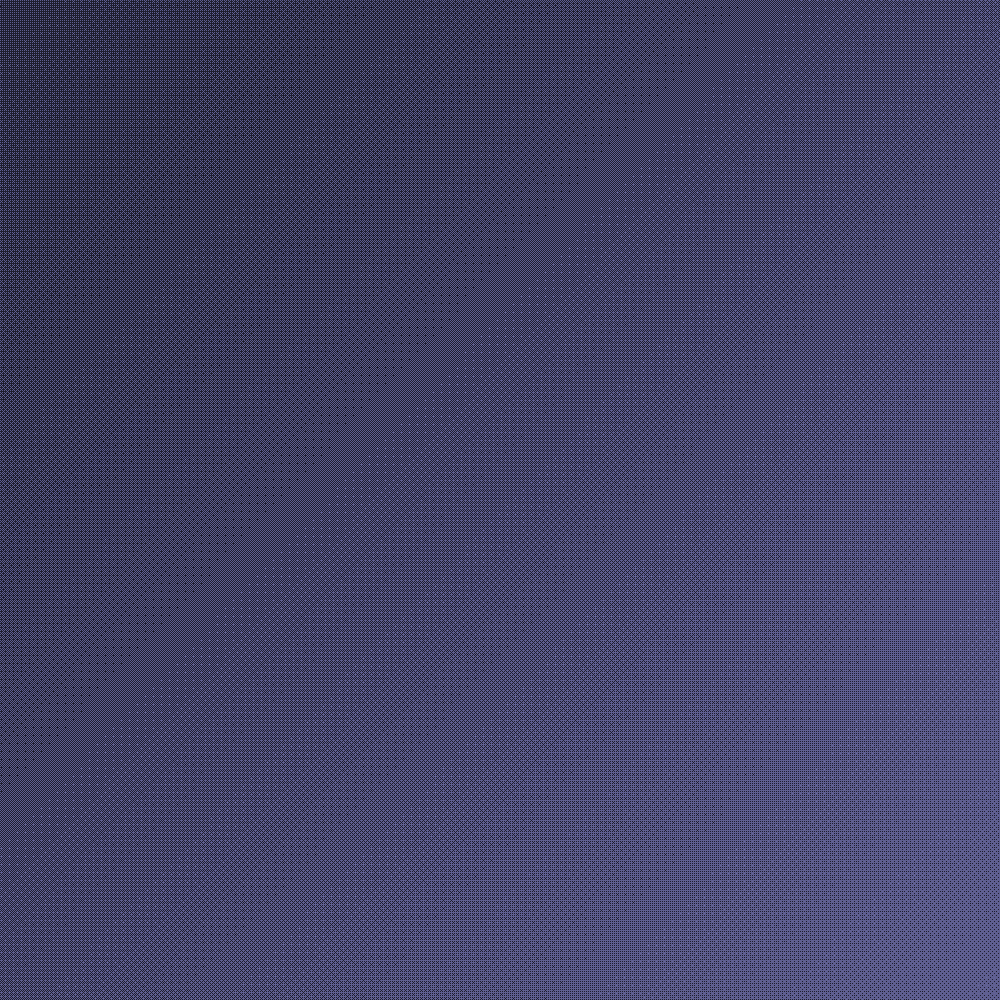
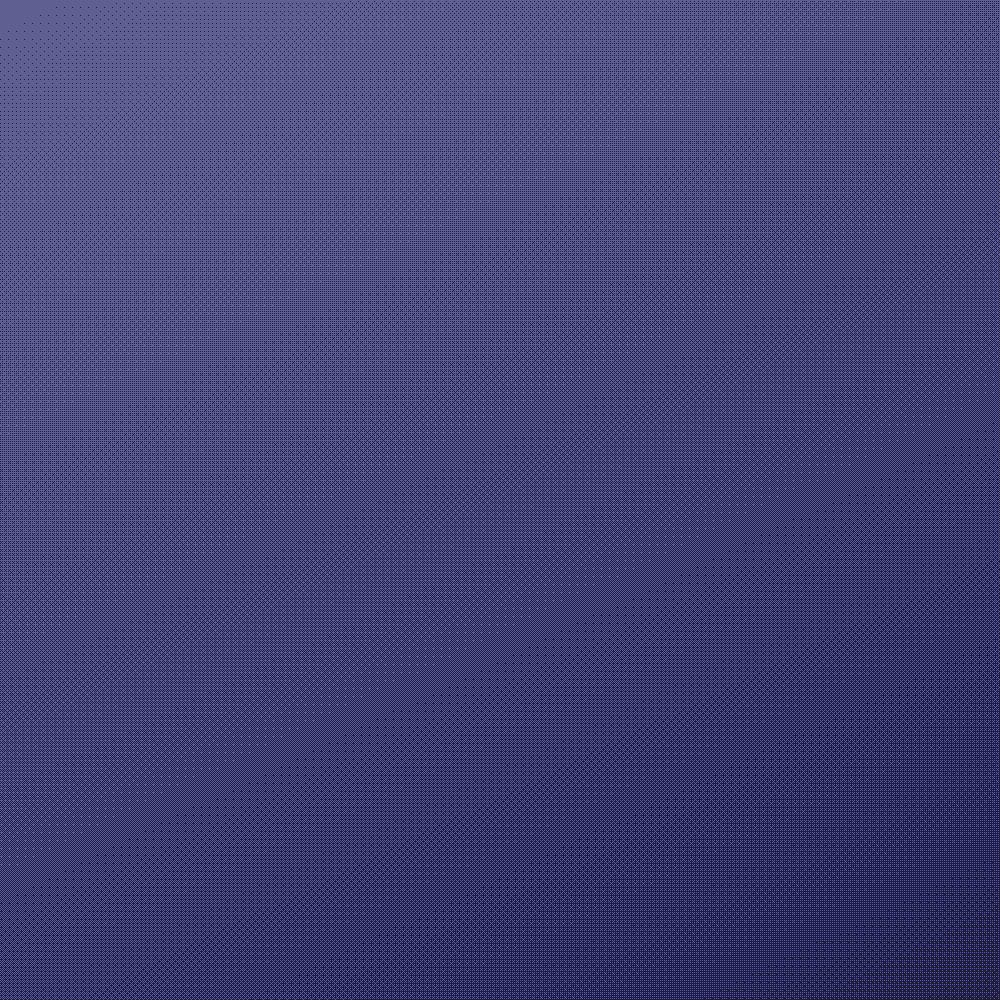
New colors and fix image lost

Changed region(s): [[0.0, 0.279, 1.0, 1.0], [0.0, 0.0, 1.0, 0.744]]

diff --git a/src/_includes/css/critical.css b/src/_includes/css/critical.css
@@ -1,1 +1,1 @@
-*,:after,:before{box-sizing:border-box}ol[class],ul[class]{padding:0}blockquote,body,dd,dl,figure,h1,h2,h3,h4,ol[class],p,ul[class]{margin:0}html{scroll-behavior:smooth}body{line-height:1.5;min-height:100vh;text-rendering:optimizeSpeed}ol[class],ul[class]{list-style:none}a:not([class]){text-decoration-skip-ink:auto}img{display:block;max-width:100%}button,input,select,textarea{font:inherit}@media (prefers-reduced-motion:reduce){*{animation-duration:.01s!important;animation-iteration-count:1!important;scroll-behavior:auto!important;transition-duration:.01s!important}}.bg-Rosewater{background:#f4c8a5}.bg-Flamingo{background:#f2cdcd}.bg-Brid{background:#edcdbb}.bg-Pink{background:#f5c2e7}.bg-Mauve{background:#cba6f7}.bg-Red{background:#eb455c}.bg-Maroon{background:#eba0ac}.bg-Peach{background:#fab387}.bg-Yellow{background:#f9e2af}.bg-Green{background:#a6e3a1}.bg-Teal{background:#94e2d5}.bg-Sky{background:#89dceb}.bg-Sapphire{background:#74c7ec}.bg-Blue{background:#354059}.bg-Lavender{background:#b4befe}.bg-Text{background:#cad3f5}.bg-Subtext1{background:#bac2de}.bg-Subtext0{background:#a6adc8}.bg-Overlay2{background:#9399b2}.bg-Overlay1{background:#7f849c}.bg-Overlay0{background:#6c7086}.bg-Surface2{background:#585b70}.bg-Surface1{background:#45475a}.bg-Surface0{background:#313244}.bg-Base{background:#1e1e2e}.bg-Mantle{background:#181825}.bg-Crust{background:#11111b}.color-Rosewater{color:#f4c8a5}.color-Flamingo{color:#f2cdcd}.color-Brid{color:#edcdbb}.color-Pink{color:#f5c2e7}.color-Mauve{color:#cba6f7}.color-Red{color:#eb455c}.color-Maroon{color:#eba0ac}.color-Peach{color:#fab387}.color-Yellow{color:#f9e2af}.color-Green{color:#a6e3a1}.color-Teal{color:#94e2d5}.color-Sky{color:#89dceb}.color-Sapphire{color:#74c7ec}.color-Blue{color:#354059}.color-Lavender{color:#b4befe}.color-Text{color:#cad3f5}.color-Subtext1{color:#bac2de}.color-Subtext0{color:#a6adc8}.color-Overlay2{color:#9399b2}.color-Overlay1{color:#7f849c}.color-Overlay0{color:#6c7086}.color-Surface2{color:#585b70}.color-Surface1{color:#45475a}.color-Surface0{color:#313244}.color-Base{color:#1e1e2e}.color-Mantle{color:#181825}.color-Crust{color:#11111b}.box-block{display:block}.box-flex{display:flex}.box-hide{display:none}.box-show{display:inherit}.font-base{font-family:sans-serif}.font-terminal{font-family:serif}.gap-top-300{margin-top:.8rem}.gap-top-400{margin-top:1rem}.gap-top-500{margin-top:1.2rem}.gap-top-600{margin-top:1.6rem}.gap-top-700{margin-top:2rem}.gap-top-800{margin-top:2.5rem}.gap-top-900{margin-top:3rem}.gap-top-1000{margin-top:4rem}.gap-top-1100{margin-top:5rem}.gap-top-1200{margin-top:6rem}.gap-right-300{margin-right:.8rem}.gap-right-400{margin-right:1rem}.gap-right-500{margin-right:1.2rem}.gap-right-600{margin-right:1.6rem}.gap-right-700{margin-right:2rem}.gap-right-800{margin-right:2.5rem}.gap-right-900{margin-right:3rem}.gap-right-1000{margin-right:4rem}.gap-right-1100{margin-right:5rem}.gap-right-1200{margin-right:6rem}.gap-bottom-300{margin-bottom:.8rem}.gap-bottom-400{margin-bottom:1rem}.gap-bottom-500{margin-bottom:1.2rem}.gap-bottom-600{margin-bottom:1.6rem}.gap-bottom-700{margin-bottom:2rem}.gap-bottom-800{margin-bottom:2.5rem}.gap-bottom-900{margin-bottom:3rem}.gap-bottom-1000{margin-bottom:4rem}.gap-bottom-1100{margin-bottom:5rem}.gap-bottom-1200{margin-bottom:6rem}.gap-left-300{margin-left:.8rem}.gap-left-400{margin-left:1rem}.gap-left-500{margin-left:1.2rem}.gap-left-600{margin-left:1.6rem}.gap-left-700{margin-left:2rem}.gap-left-800{margin-left:2.5rem}.gap-left-900{margin-left:3rem}.gap-left-1000{margin-left:4rem}.gap-left-1100{margin-left:5rem}.gap-left-1200{margin-left:6rem}.pad-top-300{padding-top:.8rem}.pad-top-400{padding-top:1rem}.pad-top-500{padding-top:1.2rem}.pad-top-600{padding-top:1.6rem}.pad-top-700{padding-top:2rem}.pad-top-800{padding-top:2.5rem}.pad-top-900{padding-top:3rem}.pad-top-1000{padding-top:4rem}.pad-top-1100{padding-top:5rem}.pad-top-1200{padding-top:6rem}.pad-right-300{padding-right:.8rem}.pad-right-400{padding-right:1rem}.pad-right-500{padding-right:1.2rem}.pad-right-600{padding-right:1.6rem}.pad-right-700{padding-right:2rem}.pad-right-800{padding-right:2.5rem}.pad-right-900{padding-right:3rem}.pad-right-1000{padding-right:4rem}.pad-right-1100{padding-right:5rem}.pad-right-1200{padding-right:6rem}.pad-bottom-300{padding-bottom:.8rem}.pad-bottom-400{padding-bottom:1rem}.pad-bottom-500{padding-bottom:1.2rem}.pad-bottom-600{padding-bottom:1.6rem}.pad-bottom-700{padding-bottom:2rem}.pad-bottom-800{padding-bottom:2.5rem}.pad-bottom-900{padding-bottom:3rem}.pad-bottom-1000{padding-bottom:4rem}.pad-bottom-1100{padding-bottom:5rem}.pad-bottom-1200{padding-bottom:6rem}.pad-left-300{padding-left:.8rem}.pad-left-400{padding-left:1rem}.pad-left-500{padding-left:1.2rem}.pad-left-600{padding-left:1.6rem}.pad-left-700{padding-left:2rem}.pad-left-800{padding-left:2.5rem}.pad-left-900{padding-left:3rem}.pad-left-1000{padding-left:4rem}.pad-left-1100{padding-left:5rem}.pad-left-1200{padding-left:6rem}.stack-300{z-index:0}.stack-400{z-index:10}.stack-500{z-index:20}.stack-600{z-index:30}.stack-700{z-index:40}.text-300{font-size:.8rem}.text-400{font-size:1rem}.text-500{font-size:1.2rem}.text-600{font-size:1.6rem}.text-700{font-size:2rem}.text-800{font-size:2.5rem}.text-900{font-size:3rem}.text-1000{font-size:4rem}.text-1100{font-size:5rem}.text-1200{font-size:6rem}.weight-light{font-weight:300}.weight-regular{font-weight:400}.weight-bold{font-weight:700}.width-full{width:100%}@media (min-width:36em){.sm\:box-block{display:block}.sm\:box-flex{display:flex}.sm\:box-hide{display:none}.sm\:box-show{display:inherit}.sm\:text-300{font-size:.8rem}.sm\:text-400{font-size:1rem}.sm\:text-500{font-size:1.2rem}.sm\:text-600{font-size:1.6rem}.sm\:text-700{font-size:2rem}.sm\:text-800{font-size:2.5rem}.sm\:text-900{font-size:3rem}.sm\:text-1000{font-size:4rem}.sm\:text-1100{font-size:5rem}.sm\:text-1200{font-size:6rem}.sm\:width-full{width:100%}}@media (min-width:48em){.md\:box-block{display:block}.md\:box-flex{display:flex}.md\:box-hide{display:none}.md\:box-show{display:inherit}.md\:text-300{font-size:.8rem}.md\:text-400{font-size:1rem}.md\:text-500{font-size:1.2rem}.md\:text-600{font-size:1.6rem}.md\:text-700{font-size:2rem}.md\:text-800{font-size:2.5rem}.md\:text-900{font-size:3rem}.md\:text-1000{font-size:4rem}.md\:text-1100{font-size:5rem}.md\:text-1200{font-size:6rem}.md\:width-full{width:100%}}@media (min-width:62em){.lg\:box-block{display:block}.lg\:box-flex{display:flex}.lg\:box-hide{display:none}.lg\:box-show{display:inherit}.lg\:text-300{font-size:.8rem}.lg\:text-400{font-size:1rem}.lg\:text-500{font-size:1.2rem}.lg\:text-600{font-size:1.6rem}.lg\:text-700{font-size:2rem}.lg\:text-800{font-size:2.5rem}.lg\:text-900{font-size:3rem}.lg\:text-1000{font-size:4rem}.lg\:text-1100{font-size:5rem}.lg\:text-1200{font-size:6rem}.lg\:width-full{width:100%}}h1,h2,h3,h4,h5,h6{line-height:1.2;margin:0}h1,h2,h3,h4{font-weight:900;text-rendering:optimizeLegibility}p{line-height:1.5}a{color:#eb455c;cursor:pointer;text-decoration:underline;transition:.3s}a:hover{background-color:#eb455c;color:#354059}::-webkit-scrollbar{background-image:url(../assets/images/dit.png);background-repeat:no-repeat}::-webkit-scrollbar-track{background-color:transparent;border-radius:.25rem}::-webkit-scrollbar-thumb{background:#11111b;border-radius:0}main:focus{outline:none}:focus{outline:2px dashed #94e2d5;outline-offset:.2rem}::selection{background:#b4befe}.anchor hidden{display:block}@font-face{font-family:Terminal;font-style:normal;font-weight:400;src:url(../../assets/fonts/terminal-grotesque-webfont.eot);src:url(../../assets/fonts/terminal-grotesque-webfont.eot?#iefix) format("embedded-opentype"),url(../../assets/fonts/terminal-grotesque-webfont.woff2) format("woff2"),url(../../assets/fonts/terminal-grotesque-webfont.woff) format("woff"),url(../../assets/fonts/terminal-grotesque-webfont.ttf) format("truetype"),url(../../assets/fonts/terminal-grotesque-webfont.svg#terminal_grotesqueregular) format("svg")}.wrapper{text-wrap:pretty;max-width:55ch;position:relative}.constrained{max-width:60ch;position:relative}.loose{margin-left:auto;margin-right:auto;min-width:50ch;position:relative}.main-content{grid-area:content;overflow-y:auto;padding:1rem}.site-head{border-right:2px solid #000;grid-area:sidebar}.site-head__inner{align-items:center;display:flex;flex-wrap:wrap;gap:1rem;justify-content:space-between}.site-head__nav{padding:.8rem 0;position:relative}.site-footer{border-top:2px solid #45475a;bottom:0;grid-area:footer;height:80px;position:absolute;width:100%}.site-footer__socials ul{align-items:center;display:flex;gap:1rem;justify-content:center}.site-footer__socials ul li{list-style-type:none}.site-footer__socials ul li a:after,.site-footer__socials ul li a:before{content:none}.site-footer__socials ul li a .icon{display:block;max-height:30px;max-width:30px;object-fit:fill}.site-footer__navigation{display:flex;flex-direction:row;justify-content:center;padding-top:1rem}.site-footer__navigation__inner{display:flex;flex-direction:column;gap:.8rem;text-align:center;width:100%}.site-footer__navigation__inner li img{display:inline-block;text-align:center}@media (min-width:48em){.site-footer__navigation__inner{flex-direction:row;justify-content:space-between}}.nav{font-weight:600;line-height:1}.nav__list{display:flex;flex-direction:row;flex-wrap:wrap;gap:1rem}@media (min-width:48em){.nav__list{flex-direction:column;gap:0}}.nav__list>*{padding-top:.8rem}@media (min-width:48em){.nav__list>*{padding-inline-start:1rem}}.nav a{color:#eb455c;display:block;font-weight:400;padding:.2rem;position:relative;text-decoration:none}.nav a:after,.nav a:before{display:none}.nav a:hover{color:#354059}.nav a[data-state=active],.nav a[data-state=page]{background:#eb455c;color:#354059}.page-header h1{font-size:1.5rem}.page-header__summary{font-size:1.2rem}.page-header__summary time:after{content:"::";margin-left:1rem}.page-header__summary__meta{display:flex;gap:1rem}.stack{display:flex;flex-direction:column;justify-content:flex-start}.stack>*{margin-bottom:0;margin-top:0}.stack>*+*{margin-top:1.5rem;margin-top:var(--space,1.5rem)}code[class*=language-],pre[class*=language-]{background:#181825;color:#cad3f5;direction:ltr;font-family:Consolas,Menlo,Monaco,Andale Mono WT,Andale Mono,Lucida Console,Lucida Sans Typewriter,DejaVu Sans Mono,Bitstream Vera Sans Mono,Liberation Mono,Nimbus Mono L,Courier New,Courier,monospace;font-size:14px;-webkit-hyphens:none;-moz-hyphens:none;-ms-hyphens:none;hyphens:none;line-height:1.375;-moz-tab-size:4;-o-tab-size:4;tab-size:4;text-align:left;white-space:pre;word-break:normal;word-spacing:normal}pre>code[class*=language-]{font-size:1em}code[class*=language-] ::-moz-selection,code[class*=language-]::-moz-selection,pre[class*=language-] ::-moz-selection,pre[class*=language-]::-moz-selection{background:#f38ba8;text-shadow:none}code[class*=language-] ::selection,code[class*=language-]::selection,pre[class*=language-] ::selection,pre[class*=language-]::selection{background:#f38ba8;text-shadow:none}pre[class*=language-]{margin:.5em 0;overflow:auto;padding:1em}:not(pre)>code[class*=language-]{border-radius:.3em;padding:.1em}.token.cdata,.token.comment,.token.doctype,.token.prolog,.token.punctuation{color:#9399b2}.token.namespace{opacity:.7}.token.number,.token.operator,.token.tag{color:#f38ba8}.token.function,.token.property{color:#f5c2e7}.token.atrule-id,.token.selector,.token.tag-id{color:#b4befe}.token.attr-name,code.language-javascript{color:#fab387}.language-css .token.string,.language-scss .token.string,.style .token.string,.token.atrule,.token.attr-value,.token.boolean,.token.control,.token.directive,.token.entity,.token.keyword,.token.placeholder,.token.regex,.token.statement,.token.string,.token.unit,.token.url,.token.variable,code.language-css,code.language-scss{color:#f9e2af}.token.deleted{text-decoration:line-through}.token.inserted{border-bottom:1px dotted #b4befe;text-decoration:none}.token.italic{font-style:italic}.token.bold,.token.important{font-weight:700}.token.important{color:#fab387}.token.entity{cursor:help}pre>code.highlight{outline:.4em solid #cad3f5;outline-offset:.4em}.line-numbers.line-numbers .line-numbers-rows{border-right-color:#313244}.line-numbers .line-numbers-rows>span:before{color:#45475a}.line-highlight.line-highlight{background:rgba(243,139,168,.2);background:-webkit-linear-gradient(left,rgba(243,139,168,.2) 70%,rgba(243,139,168,0));background:linear-gradient(90deg,rgba(243,139,168,.2) 70%,rgba(243,139,168,0))}html{background-image:url(../assets/images/ditther.png);background-repeat:no-repeat;background-size:100vw 100vh;font-family:Terminal,ui-serif,serif;font-size:20px;margin:0;padding:0}body,html{align-items:center;display:flex;flex-direction:column;width:100%}body{height:100%;justify-content:center;overflow-y:hidden}.after-body{background-color:#f4c8a5;border-top-left-radius:5px;border-top-right-radius:5px;box-shadow:10px 10px #eb455c;color:#354059;display:grid;flex-basis:clamp(300px,100vh,1200px);grid-template-areas:"title title" "actions info" "sidebar content" "sidebar footer";grid-template-columns:150px 1fr;grid-template-rows:50px 50px 1fr 80px;outline:2px solid #354059;overflow:hidden;position:relative;width:80vw}.site-title{align-items:center;background-image:url(../assets/images/dit.png);background-repeat:no-repeat;background-size:cover;border-bottom:2px solid #000;display:flex;grid-area:title;justify-content:center}.site-title>div{color:#000;cursor:pointer}.site-title>div:hover{animation:fontChange 1s infinite}@keyframes fontChange{0%{text-transform:lowercase}to{text-transform:uppercase}}.site-info{align-items:center;border-bottom:2px solid #000;border-left:2px solid #000;display:flex;grid-area:info;justify-content:center}pre{font-size:.825rem!important}
+*,:after,:before{box-sizing:border-box}ol[class],ul[class]{padding:0}blockquote,body,dd,dl,figure,h1,h2,h3,h4,ol[class],p,ul[class]{margin:0}html{scroll-behavior:smooth}body{line-height:1.5;min-height:100vh;text-rendering:optimizeSpeed}ol[class],ul[class]{list-style:none}a:not([class]){text-decoration-skip-ink:auto}img{display:block;max-width:100%}button,input,select,textarea{font:inherit}@media (prefers-reduced-motion:reduce){*{animation-duration:.01s!important;animation-iteration-count:1!important;scroll-behavior:auto!important;transition-duration:.01s!important}}.bg-Rosewater{background:#f4c8a5}.bg-Flamingo{background:#f2cdcd}.bg-Brid{background:#edcdbb}.bg-Pink{background:#f5c2e7}.bg-Mauve{background:#cba6f7}.bg-Red{background:#eb455c}.bg-Maroon{background:#eba0ac}.bg-Peach{background:#fab387}.bg-Yellow{background:#f9e2af}.bg-Green{background:#a6e3a1}.bg-Teal{background:#94e2d5}.bg-Sky{background:#89dceb}.bg-Sapphire{background:#74c7ec}.bg-Blue{background:#354059}.bg-Lavender{background:#b4befe}.bg-Text{background:#cad3f5}.bg-Subtext1{background:#bac2de}.bg-Subtext0{background:#a6adc8}.bg-Overlay2{background:#9399b2}.bg-Overlay1{background:#7f849c}.bg-Overlay0{background:#6c7086}.bg-Surface2{background:#585b70}.bg-Surface1{background:#45475a}.bg-Surface0{background:#313244}.bg-Base{background:#1e1e2e}.bg-Mantle{background:#181825}.bg-Crust{background:#11111b}.color-Rosewater{color:#f4c8a5}.color-Flamingo{color:#f2cdcd}.color-Brid{color:#edcdbb}.color-Pink{color:#f5c2e7}.color-Mauve{color:#cba6f7}.color-Red{color:#eb455c}.color-Maroon{color:#eba0ac}.color-Peach{color:#fab387}.color-Yellow{color:#f9e2af}.color-Green{color:#a6e3a1}.color-Teal{color:#94e2d5}.color-Sky{color:#89dceb}.color-Sapphire{color:#74c7ec}.color-Blue{color:#354059}.color-Lavender{color:#b4befe}.color-Text{color:#cad3f5}.color-Subtext1{color:#bac2de}.color-Subtext0{color:#a6adc8}.color-Overlay2{color:#9399b2}.color-Overlay1{color:#7f849c}.color-Overlay0{color:#6c7086}.color-Surface2{color:#585b70}.color-Surface1{color:#45475a}.color-Surface0{color:#313244}.color-Base{color:#1e1e2e}.color-Mantle{color:#181825}.color-Crust{color:#11111b}.box-block{display:block}.box-flex{display:flex}.box-hide{display:none}.box-show{display:inherit}.font-base{font-family:sans-serif}.font-terminal{font-family:serif}.gap-top-300{margin-top:.8rem}.gap-top-400{margin-top:1rem}.gap-top-500{margin-top:1.2rem}.gap-top-600{margin-top:1.6rem}.gap-top-700{margin-top:2rem}.gap-top-800{margin-top:2.5rem}.gap-top-900{margin-top:3rem}.gap-top-1000{margin-top:4rem}.gap-top-1100{margin-top:5rem}.gap-top-1200{margin-top:6rem}.gap-right-300{margin-right:.8rem}.gap-right-400{margin-right:1rem}.gap-right-500{margin-right:1.2rem}.gap-right-600{margin-right:1.6rem}.gap-right-700{margin-right:2rem}.gap-right-800{margin-right:2.5rem}.gap-right-900{margin-right:3rem}.gap-right-1000{margin-right:4rem}.gap-right-1100{margin-right:5rem}.gap-right-1200{margin-right:6rem}.gap-bottom-300{margin-bottom:.8rem}.gap-bottom-400{margin-bottom:1rem}.gap-bottom-500{margin-bottom:1.2rem}.gap-bottom-600{margin-bottom:1.6rem}.gap-bottom-700{margin-bottom:2rem}.gap-bottom-800{margin-bottom:2.5rem}.gap-bottom-900{margin-bottom:3rem}.gap-bottom-1000{margin-bottom:4rem}.gap-bottom-1100{margin-bottom:5rem}.gap-bottom-1200{margin-bottom:6rem}.gap-left-300{margin-left:.8rem}.gap-left-400{margin-left:1rem}.gap-left-500{margin-left:1.2rem}.gap-left-600{margin-left:1.6rem}.gap-left-700{margin-left:2rem}.gap-left-800{margin-left:2.5rem}.gap-left-900{margin-left:3rem}.gap-left-1000{margin-left:4rem}.gap-left-1100{margin-left:5rem}.gap-left-1200{margin-left:6rem}.pad-top-300{padding-top:.8rem}.pad-top-400{padding-top:1rem}.pad-top-500{padding-top:1.2rem}.pad-top-600{padding-top:1.6rem}.pad-top-700{padding-top:2rem}.pad-top-800{padding-top:2.5rem}.pad-top-900{padding-top:3rem}.pad-top-1000{padding-top:4rem}.pad-top-1100{padding-top:5rem}.pad-top-1200{padding-top:6rem}.pad-right-300{padding-right:.8rem}.pad-right-400{padding-right:1rem}.pad-right-500{padding-right:1.2rem}.pad-right-600{padding-right:1.6rem}.pad-right-700{padding-right:2rem}.pad-right-800{padding-right:2.5rem}.pad-right-900{padding-right:3rem}.pad-right-1000{padding-right:4rem}.pad-right-1100{padding-right:5rem}.pad-right-1200{padding-right:6rem}.pad-bottom-300{padding-bottom:.8rem}.pad-bottom-400{padding-bottom:1rem}.pad-bottom-500{padding-bottom:1.2rem}.pad-bottom-600{padding-bottom:1.6rem}.pad-bottom-700{padding-bottom:2rem}.pad-bottom-800{padding-bottom:2.5rem}.pad-bottom-900{padding-bottom:3rem}.pad-bottom-1000{padding-bottom:4rem}.pad-bottom-1100{padding-bottom:5rem}.pad-bottom-1200{padding-bottom:6rem}.pad-left-300{padding-left:.8rem}.pad-left-400{padding-left:1rem}.pad-left-500{padding-left:1.2rem}.pad-left-600{padding-left:1.6rem}.pad-left-700{padding-left:2rem}.pad-left-800{padding-left:2.5rem}.pad-left-900{padding-left:3rem}.pad-left-1000{padding-left:4rem}.pad-left-1100{padding-left:5rem}.pad-left-1200{padding-left:6rem}.stack-300{z-index:0}.stack-400{z-index:10}.stack-500{z-index:20}.stack-600{z-index:30}.stack-700{z-index:40}.text-300{font-size:.8rem}.text-400{font-size:1rem}.text-500{font-size:1.2rem}.text-600{font-size:1.6rem}.text-700{font-size:2rem}.text-800{font-size:2.5rem}.text-900{font-size:3rem}.text-1000{font-size:4rem}.text-1100{font-size:5rem}.text-1200{font-size:6rem}.weight-light{font-weight:300}.weight-regular{font-weight:400}.weight-bold{font-weight:700}.width-full{width:100%}@media (min-width:36em){.sm\:box-block{display:block}.sm\:box-flex{display:flex}.sm\:box-hide{display:none}.sm\:box-show{display:inherit}.sm\:text-300{font-size:.8rem}.sm\:text-400{font-size:1rem}.sm\:text-500{font-size:1.2rem}.sm\:text-600{font-size:1.6rem}.sm\:text-700{font-size:2rem}.sm\:text-800{font-size:2.5rem}.sm\:text-900{font-size:3rem}.sm\:text-1000{font-size:4rem}.sm\:text-1100{font-size:5rem}.sm\:text-1200{font-size:6rem}.sm\:width-full{width:100%}}@media (min-width:48em){.md\:box-block{display:block}.md\:box-flex{display:flex}.md\:box-hide{display:none}.md\:box-show{display:inherit}.md\:text-300{font-size:.8rem}.md\:text-400{font-size:1rem}.md\:text-500{font-size:1.2rem}.md\:text-600{font-size:1.6rem}.md\:text-700{font-size:2rem}.md\:text-800{font-size:2.5rem}.md\:text-900{font-size:3rem}.md\:text-1000{font-size:4rem}.md\:text-1100{font-size:5rem}.md\:text-1200{font-size:6rem}.md\:width-full{width:100%}}@media (min-width:62em){.lg\:box-block{display:block}.lg\:box-flex{display:flex}.lg\:box-hide{display:none}.lg\:box-show{display:inherit}.lg\:text-300{font-size:.8rem}.lg\:text-400{font-size:1rem}.lg\:text-500{font-size:1.2rem}.lg\:text-600{font-size:1.6rem}.lg\:text-700{font-size:2rem}.lg\:text-800{font-size:2.5rem}.lg\:text-900{font-size:3rem}.lg\:text-1000{font-size:4rem}.lg\:text-1100{font-size:5rem}.lg\:text-1200{font-size:6rem}.lg\:width-full{width:100%}}h1,h2,h3,h4,h5,h6{line-height:1.2;margin:0}h1,h2,h3,h4{font-weight:900;text-rendering:optimizeLegibility}p{line-height:1.5}a{color:#f4c8a5;cursor:pointer;text-decoration:underline;transition:.3s}a:hover{background-color:#f4c8a5;color:#1e1e2e}::-webkit-scrollbar{background-image:url(../assets/images/dit.png);background-repeat:no-repeat}::-webkit-scrollbar-track{background-color:transparent;border-radius:.25rem}::-webkit-scrollbar-thumb{background:#11111b;border-radius:0}main:focus{outline:none}:focus{outline:2px dashed #94e2d5;outline-offset:.2rem}::selection{background:#45475a}.anchor hidden{display:block}@font-face{font-family:Terminal;font-style:normal;font-weight:400;src:url(../../assets/fonts/terminal-grotesque-webfont.eot);src:url(../../assets/fonts/terminal-grotesque-webfont.eot?#iefix) format("embedded-opentype"),url(../../assets/fonts/terminal-grotesque-webfont.woff2) format("woff2"),url(../../assets/fonts/terminal-grotesque-webfont.woff) format("woff"),url(../../assets/fonts/terminal-grotesque-webfont.ttf) format("truetype"),url(../../assets/fonts/terminal-grotesque-webfont.svg#terminal_grotesqueregular) format("svg")}.wrapper{text-wrap:pretty;max-width:55ch;position:relative}.constrained{max-width:60ch;position:relative}.loose{margin-left:auto;margin-right:auto;min-width:50ch;position:relative}.main-content{grid-area:content;overflow-y:auto;padding:1rem}.site-head{border-right:1px solid #cad3f5;grid-area:sidebar}.site-head__inner{align-items:center;display:flex;flex-wrap:wrap;gap:1rem;justify-content:space-between}.site-head__nav{padding:.8rem 0;position:relative}.site-footer{border-top:1px solid #cad3f5;bottom:0;grid-area:footer;height:80px;position:absolute;width:100%}.site-footer__socials ul{align-items:center;display:flex;gap:1rem;justify-content:center}.site-footer__socials ul li{list-style-type:none}.site-footer__socials ul li a:after,.site-footer__socials ul li a:before{content:none}.site-footer__socials ul li a .icon{display:block;max-height:30px;max-width:30px;object-fit:fill}.site-footer__navigation{display:flex;flex-direction:row;justify-content:center;padding-top:1rem}.site-footer__navigation__inner{display:flex;flex-direction:column;gap:.8rem;text-align:center;width:100%}.site-footer__navigation__inner li img{display:inline-block;text-align:center}@media (min-width:48em){.site-footer__navigation__inner{flex-direction:row;justify-content:space-between}}.nav{font-weight:600;line-height:1}.nav__list{display:flex;flex-direction:row;flex-wrap:wrap;gap:1rem}@media (min-width:48em){.nav__list{flex-direction:column;gap:0}}.nav__list>*{padding-top:.8rem}@media (min-width:48em){.nav__list>*{padding-inline-start:1rem}}.nav a{color:#cad3f5;display:block;font-weight:400;padding:.2rem;position:relative;text-decoration:none}.nav a:after,.nav a:before{display:none}.nav a:hover{color:#11111b}.nav a[data-state=active],.nav a[data-state=page]{background:#f4c8a5;color:#11111b}.page-header h1{font-size:1.5rem}.page-header__summary{font-size:1.2rem}.page-header__summary time:after{content:"::";margin-left:1rem}.page-header__summary__meta{display:flex;gap:1rem}.stack{display:flex;flex-direction:column;justify-content:flex-start}.stack>*{margin-bottom:0;margin-top:0}.stack>*+*{margin-top:1.5rem;margin-top:var(--space,1.5rem)}code[class*=language-],pre[class*=language-]{background:#181825;color:#cad3f5;direction:ltr;font-family:Consolas,Menlo,Monaco,Andale Mono WT,Andale Mono,Lucida Console,Lucida Sans Typewriter,DejaVu Sans Mono,Bitstream Vera Sans Mono,Liberation Mono,Nimbus Mono L,Courier New,Courier,monospace;font-size:14px;-webkit-hyphens:none;-moz-hyphens:none;-ms-hyphens:none;hyphens:none;line-height:1.375;-moz-tab-size:4;-o-tab-size:4;tab-size:4;text-align:left;white-space:pre;word-break:normal;word-spacing:normal}pre>code[class*=language-]{font-size:1em}code[class*=language-] ::-moz-selection,code[class*=language-]::-moz-selection,pre[class*=language-] ::-moz-selection,pre[class*=language-]::-moz-selection{background:#f38ba8;text-shadow:none}code[class*=language-] ::selection,code[class*=language-]::selection,pre[class*=language-] ::selection,pre[class*=language-]::selection{background:#f38ba8;text-shadow:none}pre[class*=language-]{margin:.5em 0;overflow:auto;padding:1em}:not(pre)>code[class*=language-]{border-radius:.3em;padding:.1em}.token.cdata,.token.comment,.token.doctype,.token.prolog,.token.punctuation{color:#9399b2}.token.namespace{opacity:.7}.token.number,.token.operator,.token.tag{color:#f38ba8}.token.function,.token.property{color:#f5c2e7}.token.atrule-id,.token.selector,.token.tag-id{color:#b4befe}.token.attr-name,code.language-javascript{color:#fab387}.language-css .token.string,.language-scss .token.string,.style .token.string,.token.atrule,.token.attr-value,.token.boolean,.token.control,.token.directive,.token.entity,.token.keyword,.token.placeholder,.token.regex,.token.statement,.token.string,.token.unit,.token.url,.token.variable,code.language-css,code.language-scss{color:#f9e2af}.token.deleted{text-decoration:line-through}.token.inserted{border-bottom:1px dotted #b4befe;text-decoration:none}.token.italic{font-style:italic}.token.bold,.token.important{font-weight:700}.token.important{color:#fab387}.token.entity{cursor:help}pre>code.highlight{outline:.4em solid #cad3f5;outline-offset:.4em}.line-numbers.line-numbers .line-numbers-rows{border-right-color:#313244}.line-numbers .line-numbers-rows>span:before{color:#45475a}.line-highlight.line-highlight{background:rgba(243,139,168,.2);background:-webkit-linear-gradient(left,rgba(243,139,168,.2) 70%,rgba(243,139,168,0));background:linear-gradient(90deg,rgba(243,139,168,.2) 70%,rgba(243,139,168,0))}html{background-image:url(../assets/images/ditther.png);background-repeat:no-repeat;background-size:100vw 100vh;font-family:Terminal,ui-serif,serif;font-size:20px;margin:0;padding:0}body,html{align-items:center;display:flex;flex-direction:column;width:100%}body{height:100%;justify-content:center;overflow-y:hidden}.after-body{background-color:#1e1e2e;border-top-left-radius:5px;border-top-right-radius:5px;box-shadow:10px 10px #f4c8a5;color:#cad3f5;display:grid;flex-basis:clamp(300px,100vh,1200px);grid-template-areas:"title title" "actions info" "sidebar content" "sidebar footer";grid-template-columns:150px 1fr;grid-template-rows:50px 50px 1fr 80px;outline:2px solid #f4c8a5;overflow:hidden;position:relative;width:80vw}.site-title{align-items:center;background-image:url(../assets/images/dit.png);background-repeat:no-repeat;background-size:cover;display:flex;grid-area:title;justify-content:center}.site-title>div{color:#000;cursor:pointer}.site-title>div:hover{animation:fontChange 1s infinite}@keyframes fontChange{0%{text-transform:lowercase}to{text-transform:uppercase}}.site-info{align-items:center;border-bottom:1px solid #cad3f5;display:flex;grid-area:info;justify-content:center}pre{font-size:.825rem!important}

diff --git a/src/_includes/css/page.css b/src/_includes/css/page.css
@@ -1,1 +1,1 @@
-.post-list__item{padding:1rem 0}.post-list__item__link{font-size:1.2rem}.post-list__item__info{display:flex;font-size:1rem}.post-list__item__info__excerpt{margin-top:-.5rem}.post-list__item__info__tags{display:flex;gap:.5rem;height:100%}.post-list__item__info__tags li a{color:#eb455c}.post-list__item__info__tags li a:hover{background-color:#eb455c;color:#354059}.tags-list{display:flex;font-size:1rem;gap:.5rem}.page-content{font-size:1rem!important}.page-content__post-title{font-size:3rem!important}.page-content blockquote{background-color:#11111b;border-left:2px solid var(--link-hover-color);text-align:left}.page-content blockquote p{font-size:.9rem;padding-left:.8rem}.page-content h1{color:var(--feature-post-color)}.page-content h2,.page-content h3,.page-content h4,.page-content h5,.page-content h6{font-weight:400;position:relative;text-indent:-3px}.page-content h2{font-size:2rem}.page-content h3{font-size:1.2rem}.page-content ol,.page-content ul{padding-inline-start:3rem}.page-content li+li{margin-top:.8rem}.page-content h2,.page-content h3{--flow-space:3rem;margin-bottom:.8rem;margin-top:.8rem}.page-content h2+*,.page-content h3+*{--flow-space:0.8rem}.page-content p{line-height:1.5;margin-bottom:1.2rem;margin-top:1.2rem}.page-content .header-anchor{visibility:hidden}.page-content figcaption{background-color:#11111b;font-size:1rem;padding:.2rem 0;text-align:center}.page-content li::marker{color:var(--feature-post-color)}@media screen and (hover:hover){.page-content h2:focus .header-anchor,.page-content h2:hover .header-anchor,.page-content h3:focus .header-anchor,.page-content h3:hover .header-anchor,.page-content h4:focus .header-anchor,.page-content h4:hover .header-anchor,.page-content h5:focus .header-anchor,.page-content h5:hover .header-anchor,.page-content h6:focus .header-anchor,.page-content h6:hover .header-anchor{visibility:visible}}.screen-reader-only{clip:rect(0 0 0 0);border:0;height:1px;margin:-1px;overflow:hidden;padding:0;position:absolute;width:1px}.books-list{flex-wrap:wrap}.books-list,.books-list__item{display:flex;flex-direction:column}.books-list__item p{font-size:1rem}html{background-image:url(../../assets/images/ditther.png);background-repeat:no-repeat;background-size:100vw 100vh}time[datetime]{display:block;font-size:1rem;font-style:italic;padding-bottom:1rem}.no_dots{margin-top:1rem}.no_dots:after{display:none}
+.post-list__item{padding:1rem 0}.post-list__item__link{font-size:1.2rem}.post-list__item__info{display:flex;font-size:1rem}.post-list__item__info__excerpt{margin-top:-.5rem}.post-list__item__info__tags{display:flex;gap:.5rem;height:100%}.post-list__item__info__tags li a{color:#eb455c}.post-list__item__info__tags li a:hover{background-color:#eb455c;color:#354059}.tags-list{display:flex;font-size:1rem;gap:.5rem}.page-content{font-size:1rem!important}.page-content__post-title{font-size:3rem!important}.page-content blockquote{background-color:#11111b;border-left:2px solid var(--link-hover-color);text-align:left}.page-content blockquote p{font-size:.9rem;padding-left:.8rem}.page-content h1{color:var(--feature-post-color)}.page-content h2,.page-content h3,.page-content h4,.page-content h5,.page-content h6{font-weight:400;position:relative;text-indent:-3px}.page-content h2{font-size:2rem}.page-content h3{font-size:1.2rem}.page-content ol,.page-content ul{padding-inline-start:3rem}.page-content li+li{margin-top:.8rem}.page-content h2,.page-content h3{--flow-space:3rem;margin-bottom:.8rem;margin-top:.8rem}.page-content h2+*,.page-content h3+*{--flow-space:0.8rem}.page-content p{line-height:1.5;margin-bottom:1.2rem;margin-top:1.2rem}.page-content .header-anchor{visibility:hidden}.page-content figcaption{background-color:#11111b;font-size:1rem;padding:.2rem 0;text-align:center}.page-content li::marker{color:var(--feature-post-color)}@media screen and (hover:hover){.page-content h2:focus .header-anchor,.page-content h2:hover .header-anchor,.page-content h3:focus .header-anchor,.page-content h3:hover .header-anchor,.page-content h4:focus .header-anchor,.page-content h4:hover .header-anchor,.page-content h5:focus .header-anchor,.page-content h5:hover .header-anchor,.page-content h6:focus .header-anchor,.page-content h6:hover .header-anchor{visibility:visible}}.screen-reader-only{clip:rect(0 0 0 0);border:0;height:1px;margin:-1px;overflow:hidden;padding:0;position:absolute;width:1px}.books-list{flex-wrap:wrap}.books-list,.books-list__item{display:flex;flex-direction:column}.books-list__item p{font-size:1rem}html{background-image:url(../../assets/images/ditther.png);background-size:100vw 100vh}.site-title,html{background-repeat:no-repeat}.site-title{background-image:url(../../assets/images/dit.png);background-size:cover}time[datetime]{display:block;font-size:1rem;font-style:italic;padding-bottom:1rem}.no_dots{margin-top:1rem}.no_dots:after{display:none}

diff --git a/src/scss/critical.scss b/src/scss/critical.scss
@@ -62,13 +62,13 @@ body {
     "sidebar footer";
   width: 80vw;
   flex-basis: clamp(300px, 100vh, 1200px);
-  background-color: #{get-color('Rosewater')};
-  box-shadow: 10px 10px #{get-color('Red')};
+  background-color: #{get-color('Base')};
+  box-shadow: 10px 10px #{get-color('Rosewater')};
   border-top-right-radius: 5px;
   border-top-left-radius: 5px;
-  color: #{get-color('Blue')};
+  color: #{get-color('Text')};
   overflow: hidden;
-  outline: 2px solid #{get-color("Blue")};
+  outline: 2px solid #{get-color("Rosewater")};
 }
 
 .site-title {
@@ -76,7 +76,6 @@ body {
   align-items: center;
   justify-content: center;
   grid-area: title;
-  border-bottom: 2px solid black;
   background-image: url("../assets/images/dit.png");
   background-repeat: no-repeat;
   background-size: cover;
@@ -106,8 +105,7 @@ body {
   align-items: center;
   justify-content: center;
   grid-area: info;
-  border-bottom: 2px solid black;
-  border-left: 2px solid black;
+  border-bottom: 1px solid #{get-color('Text')};
 }
 
 pre {

diff --git a/src/scss/blocks/_nav.scss b/src/scss/blocks/_nav.scss
@@ -27,7 +27,7 @@
     text-decoration: none;
     padding: 0.2rem;
     font-weight: normal;
-    color: #{get-color('Red')};
+    color: #{get-color('Text')};
 
     &::after,
     &::before {
@@ -35,13 +35,13 @@
     }
 
     &:hover{ 
-      color: #{get-color('Blue')};
+      color: #{get-color('Crust')};
     }
 
     &[data-state='active'],
     &[data-state='page'] {
-      background: #{get-color('Red')};
-      color: #{get-color('Blue')};
+      background: #{get-color('Rosewater')};
+      color: #{get-color('Crust')};
     }
   }
 }

diff --git a/src/scss/page.scss b/src/scss/page.scss
@@ -20,6 +20,12 @@ html {
   background-size: 100vw 100vh;
 }
 
+.site-title {
+  background-image: url("../../assets/images/dit.png");
+  background-repeat: no-repeat;
+  background-size: cover;
+}
+
 time[datetime] {
   display: block;
   font-size: get-size('400');
@@ -29,6 +35,7 @@ time[datetime] {
 
 .no_dots {
   margin-top: 1rem;
+
   &::after {
     display: none;
   }

diff --git a/src/scss/base/_typography.scss b/src/scss/base/_typography.scss
@@ -23,11 +23,11 @@ p {
 a {
   transition: 0.3s;
   cursor: pointer;
-  color: #{get-color('Red')};
+  color: #{get-color('Rosewater')};
   text-decoration: underline;
 
   &:hover {
-    background-color: #{get-color('Red')};
-    color: #{get-color("Blue")};
+    background-color: #{get-color('Rosewater')};
+    color: #{get-color('Base')}
   }
 }

diff --git a/src/scss/blocks/_footer.scss b/src/scss/blocks/_footer.scss
@@ -4,7 +4,7 @@
   width: 100%;
   position: absolute;
   bottom: 0;
-  border-top : 2px solid #{get-color('Surface1')};
+  border-top : 1px solid #{get-color('Text')};
 
   &__socials {
     ul {

diff --git a/src/scss/blocks/_header.scss b/src/scss/blocks/_header.scss
@@ -1,5 +1,5 @@
 .site-head {
-  border-right: 2px solid black;
+  border-right: 1px solid #{get-color('Text')};
   grid-area: sidebar;
 
   &__inner {

diff --git a/src/scss/base/_focus.scss b/src/scss/base/_focus.scss
@@ -8,5 +8,5 @@ main:focus {
 }
 
 ::selection {
-  background: #{get-color('Lavender')} 
+  background: #{get-color('Surface1')} 
 }
